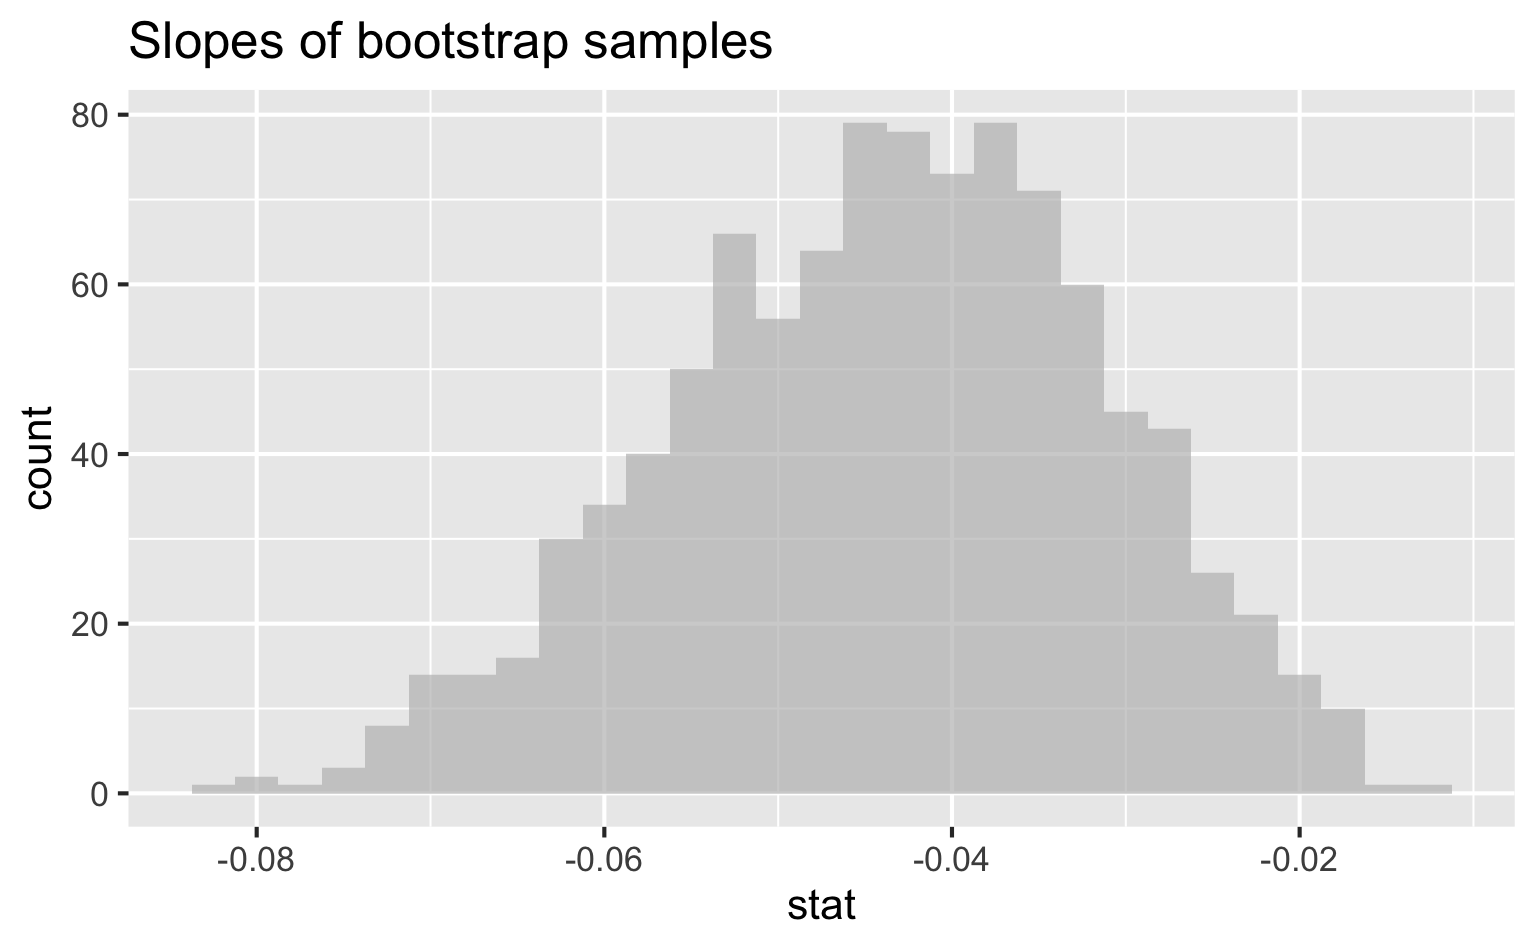
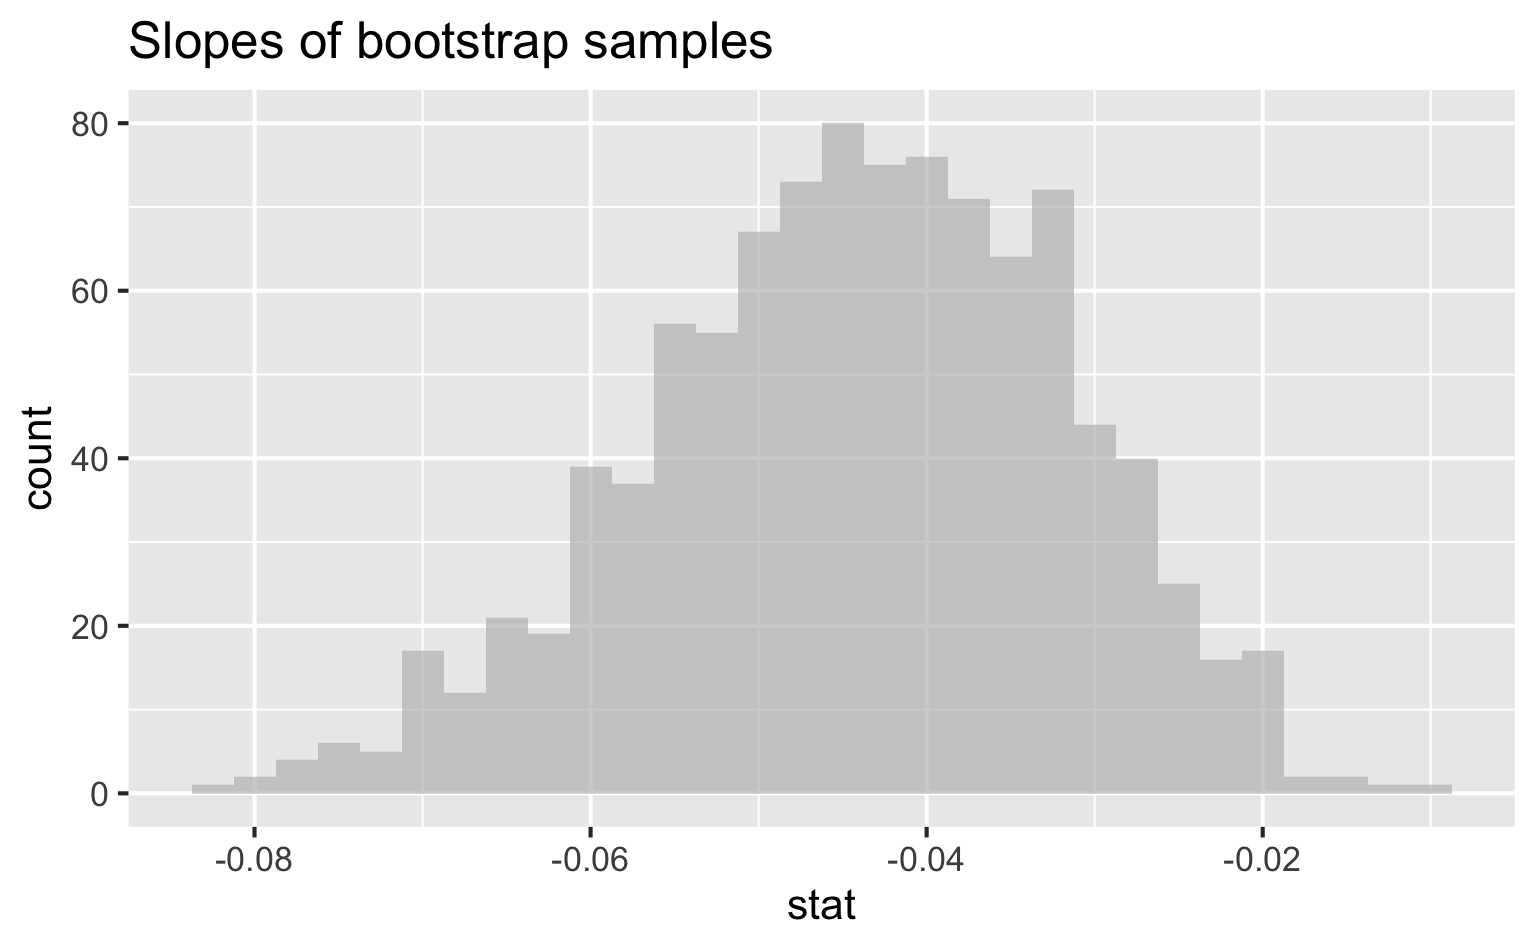
Quantifying uncertainty deck

diff --git a/_site/slides/4-1-1-quantifying-uncertainty/4-1-1-quantifying-uncertainty.html b/_site/slides/4-1-1-quantifying-uncertainty/4-1-1-quantifying-uncertainty.html
@@ -346,15 +346,18 @@
 </div><div class="column">
 
 </div></div>
-</section><section id="quantifying-the-variability-of-slopes" class="slide level2"><h2>Quantifying the variability of slopes</h2>
+</section><section id="quantifying-the-variability-of-sample-statistics" class="slide level2"><h2>Quantifying the variability of sample statistics</h2>
 <p>We can quantify the variability of sample statistics using</p>
 <ul>
 <li>simulation: via bootstrapping (in this course)</li>
 </ul>
+<div class="fragment">
 <p>or</p>
 <ul>
 <li>theory: via Central Limit Theorem (in future stat courses!)</li>
 </ul>
+</div>
+<div class="fragment">
 <div class="cell">
 <div class="cell-output cell-output-stdout">
 <pre><code># A tibble: 2 × 5
@@ -362,6 +365,7 @@
   &lt;chr&gt;            &lt;dbl&gt;     &lt;dbl&gt;     &lt;dbl&gt;    &lt;dbl&gt;
 1 (Intercept)    24.3       1.29       18.8  8.28e-24
 2 family_income  -0.0431    0.0108     -3.98 2.29e- 4</code></pre>
+</div>
 </div>
 </div>
 </section></section><section><section id="bootstrapping" class="title-slide slide level1 center"><h1>Bootstrapping</h1>
@@ -403,10 +407,10 @@
 </div>
 </section><section id="bootstrapping-scheme" class="slide level2"><h2>Bootstrapping scheme</h2>
 <ol type="1">
-<li><p>Take a bootstrap sample - a random sample taken <strong>with replacement</strong> from the original sample, of the same size as the original sample</p></li>
-<li><p>Calculate the bootstrap statistic - a statistic such as mean, median, proportion, slope, etc. computed on the bootstrap samples</p></li>
-<li><p>Repeat steps (1) and (2) many times to create a bootstrap distribution - a distribution of bootstrap statistics</p></li>
-<li><p>Calculate the bounds of the XX% confidence interval as the middle XX% of the bootstrap distribution</p></li>
+<li class="fragment"><p>Take a bootstrap sample - a random sample taken <strong>with replacement</strong> from the original sample, of the same size as the original sample</p></li>
+<li class="fragment"><p>Calculate the bootstrap statistic - a statistic such as mean, median, proportion, slope, etc. computed on the bootstrap samples</p></li>
+<li class="fragment"><p>Repeat steps (1) and (2) many times to create a bootstrap distribution - a distribution of bootstrap statistics</p></li>
+<li class="fragment"><p>Calculate the bounds of the XX% confidence interval as the middle XX% of the bootstrap distribution</p></li>
 </ol></section><section id="bootstrap-sample-1" class="slide level2"><h2>Bootstrap sample 1</h2>
 <div class="cell">
 <div class="sourceCode cell-code" id="cb6"><pre class="sourceCode numberSource r number-lines code-with-copy"><code class="sourceCode r"><span id="cb6-1"><a></a>elmhurtst_boot_1 <span class="ot">&lt;-</span> elmhurst <span class="sc">|&gt;</span></span>
@@ -507,10 +511,10 @@
 <pre><code># A tibble: 1 × 2
   lower_ci upper_ci
      &lt;dbl&gt;    &lt;dbl&gt;
-1  -0.0699  -0.0217</code></pre>
+1  -0.0705  -0.0217</code></pre>
 </div>
 </div>
-<p><strong>We are 95% confident that</strong> for each additional $1,000 of family income, we would expect students to receive $69.95 to $21.7 less in gift aid, on average.</p>
+<p><strong>We are 95% confident that</strong> for each additional $1,000 of family income, we would expect students to receive $70.48 to $21.68 less in gift aid, on average.</p>
 
 
 </section></section>

diff --git a/_site/index.html b/_site/index.html
@@ -476,9 +476,9 @@ Title
 </td>
 
 </tr>
-<tr data-index="10" data-listing-file-modified-sort="1755279081600" data-listing-reading-time-sort="12" data-listing-word-count-sort="2206" data-listing-title-sort="Quantifying uncertainty" data-listing-filename-sort="4-1-1-quantifying-uncertainty.qmd">
+<tr data-index="10" data-listing-file-modified-sort="1755281726195" data-listing-reading-time-sort="12" data-listing-word-count-sort="2209" data-listing-title-sort="Quantifying uncertainty" data-listing-filename-sort="4-1-1-quantifying-uncertainty.qmd">
 <td>
-<a href="./slides/4-1-1/4-1-1-quantifying-uncertainty.html" class="title listing-title">Quantifying uncertainty</a>
+<a href="./slides/4-1-1-quantifying-uncertainty/4-1-1-quantifying-uncertainty.html" class="title listing-title">Quantifying uncertainty</a>
 </td>
 
 </tr>
